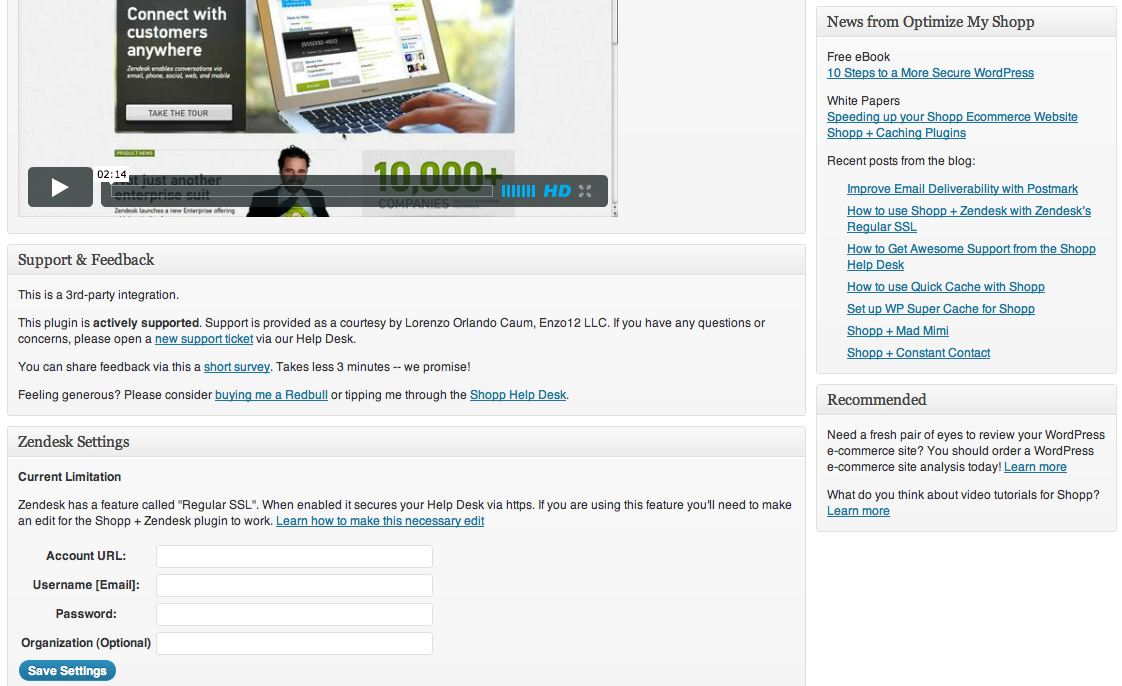
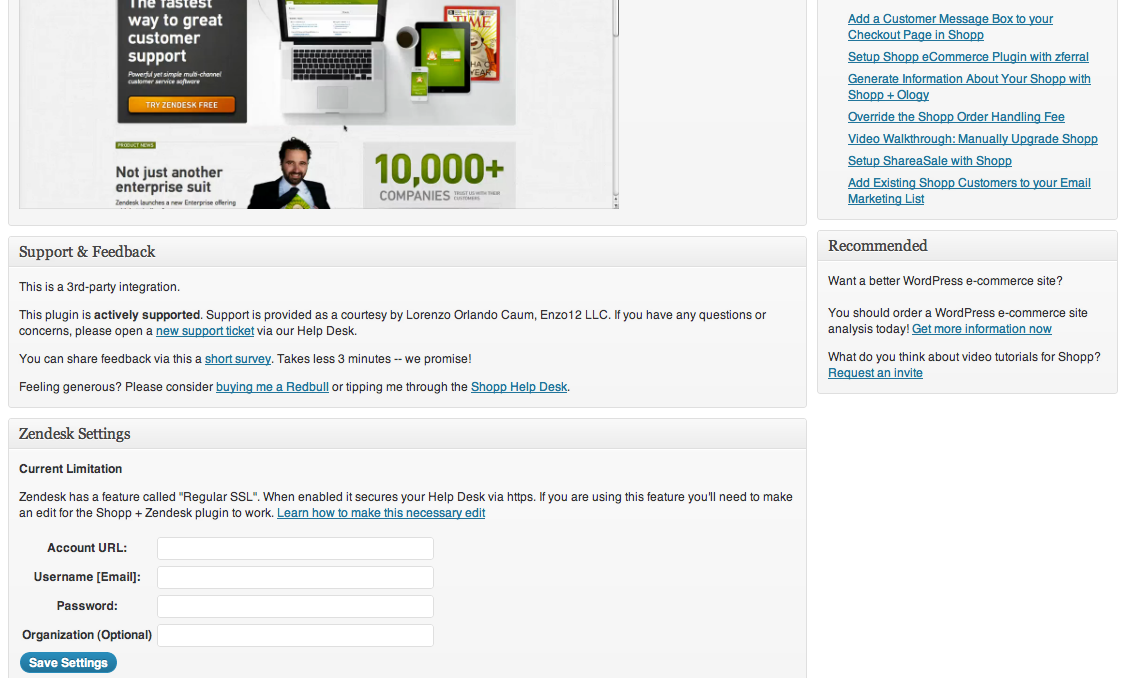
tagging version 1.0.4 of Shopp + Zendesk
git-svn-id: https://plugins.svn.wordpress.org/shopp-zendesk/trunk@573868 b8457f37-d9ea-0310-8a92-e5e31aec5664

diff --git a/css/shopp-zendesk.css b/css/shopp-zendesk.css
@@ -14,46 +14,3 @@ div.inside ul, div.inside ol {
 .postbox .hndle {
     cursor: auto;
 }
-
-#optin {
-	background: #EFEFEF;
-	border: 1px solid #CCCCCC;
-	color: #000000;
-	padding: 20px 15px;
-	text-align: center;
-}
-
-#optin p { margin: 8px 0 0 }
-
-#optin input {
-	border-radius: 3px;
-	-moz-border-radius: 3px;
-	-webkit-border-radius: 3px;
-	box-shadow: 0 2px 2px #111;
-	-moz-box-shadow: 0 2px 2px #111;
-	-webkit-box-shadow: 0 2px 2px #111
-}
-
-#optin input[type="text"] {
-	border: 1px solid #111;
-	font-size: 15px;
-	margin-bottom: 10px;
-	padding: 8px 10px;
-	width: 90%
-}
-
-#optin input.email { background-color: #fff }
-#optin input.name { background-color: #fff }
-#optin input[type="submit"] {
-	background-color: #6AAFCF;
-	border: 1px solid #2A8CBA;
-	color: #fff;
-	cursor: pointer;
-	font-size: 18px;
-	font-weight: bold;
-	padding: 8px 0;
-	text-shadow: -1px -1px #3a060a;
-	width: 100%
-}
-
-#optin input[type="submit"]:hover { background-color: #f0a000; 	border-color: #c87800;}

diff --git a/shopp-zendesk.php b/shopp-zendesk.php
@@ -2,13 +2,14 @@
 /*
 Plugin Name: Shopp + Zendesk
 Description: Customers who order from your WordPress e-commerce store are added to your Zendesk help desk after checkout.
-Version: 1.0.3
+Version: 1.0.4
 Plugin URI: http://optimizemyshopp.com
 Author: Lorenzo Orlando Caum, Enzo12 LLC
 Author URI: http://enzo12.com
 License: GPLv2
 */
-/* (CC BY 3.0) 2012  Lorenzo Orlando Caum  (email : hello@enzo12.com)
+/* 
+(CC BY 3.0) 2012  Lorenzo Orlando Caum  (email : hello@enzo12.com)
 
 	This plugin is free software: you can redistribute it and/or modify
 	it under the terms of the GNU General Public License as published by
@@ -26,15 +27,22 @@ License: GPLv2
 
 require_once('inc/Zendesk.php');
 
+Shopp_Zendesk::smartLoad();
+
 class Shopp_Zendesk {
 	public static $account;
 	public static $username;
 	public static $password;
 	public static $organization;
 
+	public static function smartLoad() {
+		$instantiate = apply_filters('shoppZendeskLoadBasic', true);
+		if ($instantiate) { new Shopp_Zendesk; }
+	}
+	
 	public function __construct() {
-		add_action('shopp_init', array(&$this, 'init'));
-		add_action('shopp_order_success', array(&$this, 'add_to_zendesk_list'));
+		add_action('shopp_init', array($this, 'init'));
+		add_action('shopp_order_success', array($this, 'add_to_zendesk_list'));
 		
 		$this->account = get_option("shopp_zendesk_account");
 		$this->username = get_option("shopp_zendesk_username");
@@ -43,16 +51,15 @@ class Shopp_Zendesk {
 	}
 
 	public function init() {
-		wp_enqueue_style( 'shopp-zendesk-stylesheet', plugins_url( "css/shopp-zendesk.css", __FILE__ ), array(), '20120608' );
+		wp_enqueue_style( 'shopp-zendesk-stylesheet', plugins_url( "css/shopp-zendesk.css", __FILE__ ), array(), '20121607' );
 		
-		// Actions and filters
-		add_action('admin_menu', array(&$this, 'admin_menu'));
+		add_action('admin_menu', array($this, 'admin_menu'));
 	}
 
 	public function admin_menu() {
 		global $Shopp;
 		$ShoppMenu = $Shopp->Flow->Admin->MainMenu;
-		$page = add_submenu_page($ShoppMenu,__('Shopp + Zendesk', 'page title'), __('+ Zendesk','menu title'), defined('SHOPP_USERLEVEL') ? SHOPP_USERLEVEL : 'manage_options', 'shopp-zendesk', array(&$this, 'render_display_settings'));
+		$page = add_submenu_page($ShoppMenu,__('Shopp + Zendesk', 'page title'), __('+ Zendesk','menu title'), defined('SHOPP_USERLEVEL') ? SHOPP_USERLEVEL : 'manage_options', 'shopp-zendesk', array($this, 'render_display_settings'));
 
 		add_action( 'admin_print_styles-' . $page, 'admin_styles' );
 	}
@@ -108,17 +115,20 @@ class Shopp_Zendesk {
 				<div class="inside">
 					<p>This plugin integrates <a href="http://optimizemyshopp.com/go/shopp/" title="Learn more about Shopp">Shopp</a> with <a href="http://optimizemyshopp.com/go/zendesk/" title="Learn more about Zendesk">Zendesk</a>.</p> 
 					<p>After checkout, a customers email, name, and phone number will be added to your Zendesk.</p>
-					<p>This process occurs in the background without needing intervention from the user.</p> 
+					<p>This process occurs in the background without needing action from the user.</p> 
 					<p>*If a user has never used your Zendesk, then they will be asked to set a password for their account. <em>This may or may not be applicable as it depends on the settings in your Zendesk.</em></p>
 					<strong>Acknowledgements</strong>
-					<p>Credit to Adam Sewell who wrote the original code that allowed data to be transferred from Shopp to MailChimp. This code has been adapted for several other services. <a href="http://optimizemyshopp.com/go/adamsewell/" title="Learn about Shopp Toolbox">View Adam's latest project</a></p>
+					<br />
+					<p>Credit to Adam Sewell who wrote the original code that allowed data to be transferred from Shopp after checkout. This code has been adapted for several other services. <a href="http://optimizemyshopp.com/go/adamsewell/" title="Learn about Shopp Toolbox">View Adam's latest project</a></p>
 					<p>Credit to Brian Hartvigsen who wrote the a PHP API Wrapper for the Zendesk API. <a href="https://support.zendesk.com/entries/30891-php-api-library" title="Learn about the PHP API Wrapper for Zendesk">Learn more about the Zendesk API</a></p>
+					<p>Credit to Barry Hughes who identified errors in this plugin and developed the groundwork for extending this plugin further. <a href="http://optimizemyshopp.com/go/barryhughes/" title="Get in touch with Barry Hughes">Go to Barry's website</a></p>
 				</div>
 			</div>
 
 			<div id="shopp-zendesk-general-settings" class="postbox">
-				<h3 class="hndle"><span>Set Up Tutorial</span></h3>
+				<h3 class="hndle"><span>Setup Tutorial</span></h3>
 				<div class="inside">
+				<p>The videos below are designed to show you an overview of the plugin and how to gather the information that you need to get it running quickly.</p>
 				<p>Pro-tip: After starting a video, click on the fullscreen button which appears to the right of the HD logo.</p>
 				<p><strong>A Walkthrough of the Integration</strong><br /><br /><iframe src="http://player.vimeo.com/video/32981420?title=0&amp;byline=0&amp;portrait=0" width="600" height="300" frameborder="0" webkitAllowFullScreen allowFullScreen></iframe></p>
 				<br />
@@ -169,20 +179,13 @@ class Shopp_Zendesk {
 				<div class="inside">
 					<table border="0" width="100%">
    					 	<tr>
-     						<td width="70%"><div><img style="padding: 5px 10px 0px 0px; float:left" src="http://cdn.lorenzocaum.com/wp-content/uploads/2011/01/lorenzo-orlando-caum.jpg" border="0" alt="Founder of Enzo12 LLC" width="115" height="160"><p><a href="http://twitter.com/lorenzocaum" >@lorenzocaum</a> is an entrepreneur and a marketer. <br><br>Lorenzo is the founder of Enzo12 LLC, a <a href="http://enzo12.com" title="Enzo12 LLC">web engineering firm</a> <br />in Tampa, FL. He is a graduate from the College of Business at the <br />University of South Florida. <br><br>Lorenzo contributes to the <a href="http://optimizemyshopp.com/go/shopp/" title="Learn more about Shopp">Shopp</a> project as a customer support rep.<br><br>He also has a <a href="http://lorenzocaum.com" title="Read Lorenzo's blog">business, marketing, and technology blog</a>.</p></div></td>
-    					  <td width="30%"><div id="optin">
-						<Big>Get Free Email Updates about using Shopp</Big>
-						<form action="http://optimizemyshopp.us2.list-manage1.com/subscribe/post?u=5991854e8288cad7823e23d2e&amp;id=0719c3f096" method="post" target="_blank">
-						<p>
-						<input type="text" name="EMAIL" class="email" value="Enter your email" onfocus="if(this.value==this.defaultValue)this.value='';" onblur="if(this.value=='')this.value=this.defaultValue;" />
-						<input name="submit" type="submit" value="Get Started Today!" /></p>
-						</form>
-						</div></td>
+     						<td width="70%"><div><img style="padding: 0px 15px 0px 0px; float:left" src="http://cdn.optimizemyshopp.com/wp-content/uploads/2011/09/lorenzo-orlando-caum-shopp-wordpress-150x150.jpg" border="0" alt="Founder of Enzo12 LLC" width="150" height="150"><p><a href="http://twitter.com/lorenzocaum" >@lorenzocaum</a> is an entrepreneur and a marketer. <br /><br />Lorenzo is the founder of Enzo12 LLC, a <a href="http://enzo12.com" title="Enzo12 LLC">web engineering firm</a> <br />in Tampa, FL. He is a graduate from the College of Business at the <br />University of South Florida. <br /><br />Lorenzo contributes to the <a href="http://optimizemyshopp.com/go/shopp/" title="Learn more about Shopp">Shopp</a> project as a customer support rep.<br /><br />He also has a <a href="http://lorenzocaum.com" title="Read Lorenzo's blog">business, marketing, and technology blog</a>.</p></div></td>
+    					  <td width="30%"></td>
    						</tr>
-					</table>		
+					</table>
 				</div>
 			</div>
-			
+
 		</div>
 	</div>
 	
@@ -201,12 +204,16 @@ class Shopp_Zendesk {
 			<div id="shopp-zendesk-subscribe" class="postbox">
 				<h3 class="hndle"><span>Free Email Updates</span></h3>
 				<div class="inside">
-					<p>Get infrequent email updates delivered right to your inbox about getting the most from your Shopp.</p>
-					<p><div id="optin">
-					<form action="http://optimizemyshopp.us2.list-manage1.com/subscribe/post?u=5991854e8288cad7823e23d2e&amp;id=0719c3f096" method="post" target="_blank">
+					<p>Get infrequent email updates delivered right to your inbox about getting the most from Shopp.</p>
+					<div id="optin">
 					<p>
+					<form action="http://optimizemyshopp.us2.list-manage1.com/subscribe/post?u=5991854e8288cad7823e23d2e&amp;id=0719c3f096" method="post" target="_blank">
+
 					<input type="text" name="EMAIL" class="email" value="Enter your email" onfocus="if(this.value==this.defaultValue)this.value='';" onblur="if(this.value=='')this.value=this.defaultValue;" />
-					<input name="submit" type="submit" value="Get Started!" /></p></form></div></p>				
+					<input name="submit" class="button-primary" type="submit" value="Get Started!" />
+					</form>
+					</p>
+					</div>
 				</div>
 			</div>
 					
@@ -220,7 +227,10 @@ class Shopp_Zendesk {
 			<div id="shopp-zendesk-enjoy-this-plugin" class="postbox">
 				<h3 class="hndle"><span>Enjoy this Plugin?</span></h3>
 				<div class="inside">
-					<p><ol><li><strong>Rate it </strong><a href="http://wordpress.org/extend/plugins/shopp-zendesk/">5 stars on WordPress.org</li></a><li><strong>Spread social joy</strong> ;)<br />&nbsp;&nbsp;&nbsp;&nbsp;&nbsp;&nbsp;&nbsp;&nbsp;&nbsp;&nbsp;&nbsp;&nbsp;&nbsp;&nbsp;&nbsp;&nbsp;&nbsp;&nbsp;&nbsp;&nbsp;&nbsp;&nbsp;&nbsp;&nbsp;&nbsp;&nbsp;&nbsp;&nbsp;&nbsp;&nbsp;<a href="https://twitter.com/share" class="twitter-share-button" data-url="http://optimizemyshopp.com/blog/" data-text="Shopp + Zendesk for my #WordPress #ecommerce store" data-count="none" data-via="enzo12llc" data-related="lorenzocaum:entrepreneur">Tweet</a><script type="text/javascript" src="//platform.twitter.com/widgets.js"></script><br /><br /><div id="fb-root"></div>
+					<p>
+					<ol>
+					<li><strong>Rate it </strong><a href="http://wordpress.org/extend/plugins/shopp-zendesk/">5 stars on WordPress.org</a></li>
+					<li><strong>Spread social joy</strong> ;)<br />&nbsp;&nbsp;&nbsp;&nbsp;&nbsp;&nbsp;&nbsp;&nbsp;&nbsp;&nbsp;&nbsp;&nbsp;&nbsp;&nbsp;&nbsp;&nbsp;&nbsp;&nbsp;&nbsp;&nbsp;&nbsp;&nbsp;&nbsp;&nbsp;&nbsp;&nbsp;&nbsp;&nbsp;&nbsp;&nbsp;<a href="https://twitter.com/share" class="twitter-share-button" data-url="http://optimizemyshopp.com/blog/" data-text="Shopp + Zendesk for my #WordPress #ecommerce store" data-count="none" data-via="enzo12llc" data-related="lorenzocaum:entrepreneur">Tweet</a><script type="text/javascript" src="//platform.twitter.com/widgets.js"></script><br /><br /><div id="fb-root"></div>
 					<script>(function(d, s, id) {
  					var js, fjs = d.getElementsByTagName(s)[0];
   					if (d.getElementById(id)) {return;}
@@ -239,7 +249,11 @@ class Shopp_Zendesk {
     				po.src = 'https://apis.google.com/js/plusone.js';
     				var s = document.getElementsByTagName('script')[0]; s.parentNode.insertBefore(po, s);
   					})();
-					</script></li><li><strong>Express your kindness</strong> with a <a href="http://optimizemyshopp.com/go/donate-shopp-zendesk/">donation</a></li></p>		 
+					</script></li>
+					<li><strong>Express your kindness</strong> with a <a href="http://optimizemyshopp.com/go/donate-shopp-zendesk/">donation</a>
+					</li>
+					</ol>
+					</p>		 
 				</div>
 			</div>
 
@@ -250,20 +264,15 @@ class Shopp_Zendesk {
 				<?php _e('Recent posts from the blog:'); ?>
 				<?php
 				include_once(ABSPATH . WPINC . '/feed.php');
-
 				$rss = fetch_feed('http://feeds.feedburner.com/optimizemyshopp');
 				if (!is_wp_error( $rss ) ) : 
-
     			$maxitems = $rss->get_item_quantity(7); 
-
     			$rss_items = $rss->get_items(0, $maxitems); 
 				endif;
 				?>
-
 				<ul>
     			<?php if ($maxitems == 0) echo '<li>No items.</li>';
     			else
-
     			foreach ( $rss_items as $item ) : ?>
     			<li>
         		<a href='<?php echo esc_url( $item->get_permalink() ); ?>'
@@ -278,19 +287,15 @@ class Shopp_Zendesk {
 			<div id="shopp-zendesk-recommendations" class="postbox">
 				<h3 class="hndle"><span>Recommended</span></h3>
 				<div class="inside">
-					<p>Want a better WordPress e-commerce site? <br /><br />You should order a WordPress e-commerce site analysis today! <a href="http://optimizemyshopp.com/store/wordpress-ecommerce-site-analysis/" title="Learn more about our site review">Learn more</a></p>
-					<p>What do you think about video tutorials for Shopp? <a href="http://shoppcreators.com" title="Learn more about Shopp video tutorials">Learn more</a></p>
+					<p>Want a better WordPress e-commerce site? <br /><br />You should order a WordPress e-commerce site analysis today! <a href="http://optimizemyshopp.com/store/wordpress-ecommerce-site-analysis/" title="Learn more about our site review">Get more information now</a></p>
+					<p>What do you think about video tutorials for Shopp? <a href="http://shoppcreators.com" title="Learn more about Shopp video tutorials">Request an invite</a></p>
 				</div>
 			</div>
 
 		</div>
-		<br><br><br>
+		<br /><br /><br />
 	</div>
 </div>
 <?php	
 	}
 }
-
-new Shopp_Zendesk();
-
-?>
